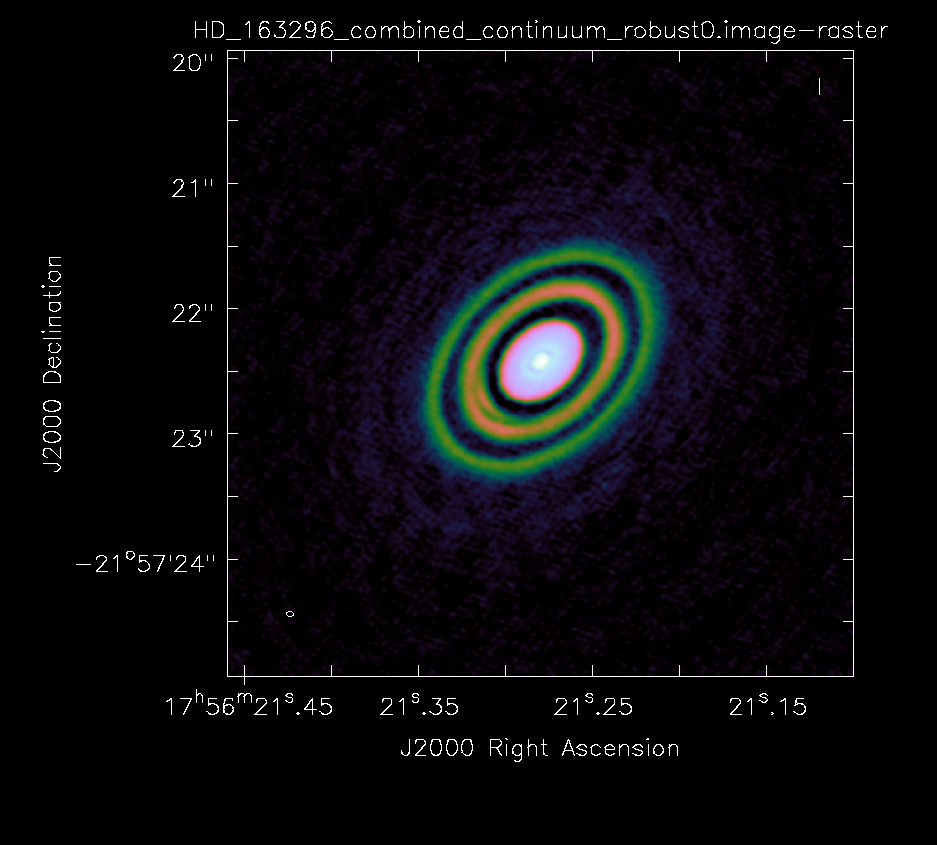
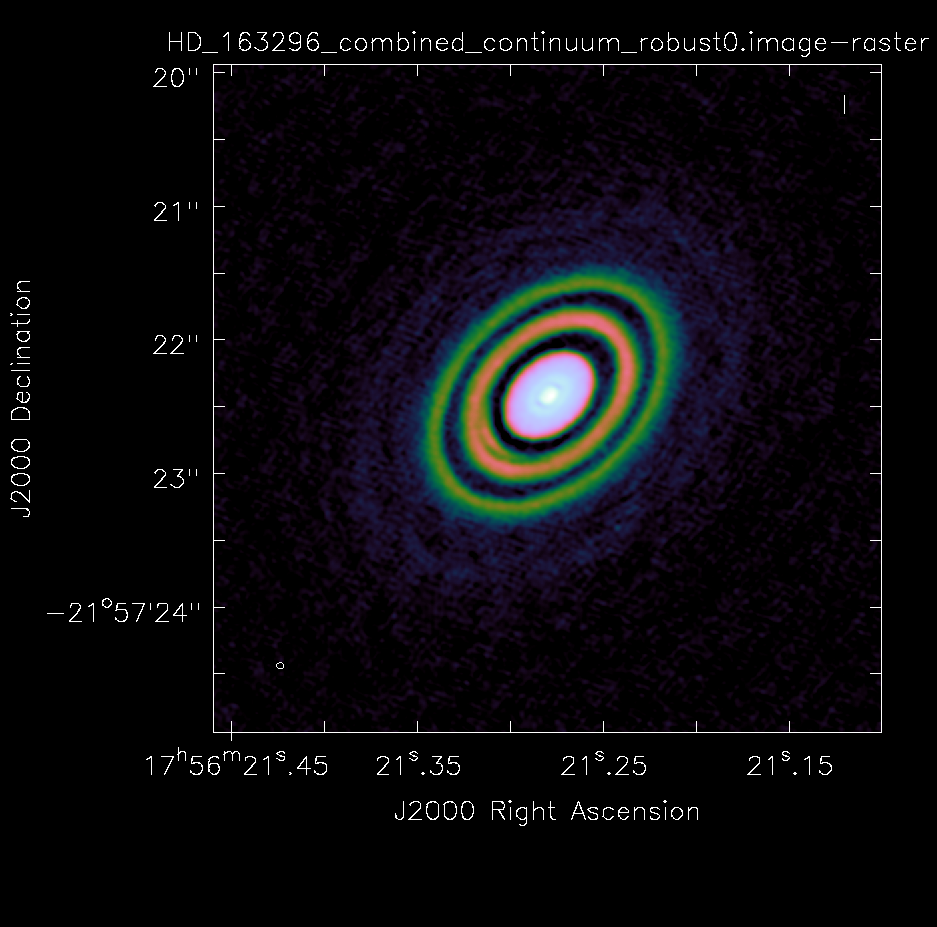
updated HD 163296

diff --git a/reduction_scripts/HD_163296_jh.py b/reduction_scripts/HD_163296_jh.py
@@ -969,7 +969,7 @@ applycal(vis='HD_163296_contcombined.ms', spw='0~23', spwmap = [0]*24, gaintable
 LB1_contms_p1 = field+'_'+tag+'_contp1.ms'
 os.system('rm -rf '+LB1_contms_p1)
 split2(vis='HD_163296_contcombined.ms', outputvis=LB1_contms_p1, datacolumn='corrected')
-"""
+
 LB1_contimagep1 = field+'_'+tag+'_continuump1'
 os.system('rm -rf '+LB1_contimagep1+'.*')
 clean(vis=LB1_contms_p1, 
@@ -991,8 +991,8 @@ clean(vis=LB1_contms_p1,
 
 #120 cycles of 100 iterations each
 
-#rms: 26 microJy/beam
-#peak: 7.5 microJy/beam
+#rms: 23 microJy/beam
+#peak: 80 microJy/beam
 
 # Second round of phase-only self-cal
 LB1_p2 = field+'_'+tag+'.p2'
@@ -1023,20 +1023,21 @@ clean(vis=LB1_contms_p2,
       usescratch = True,
       psfmode = 'hogbom',
       cyclefactor = 5, 
-      mask='ellipse[[1000pix,1000pix],[2.3arcsec,1.6arcsec],140deg]',
+      mask='ellipse[[1000pix,1000pix],[2.4arcsec,1.7arcsec],140deg]',
       imagermode = 'csclean')
+
 
 #130 cycles of 100 iterations each
 
-#rms: 24 microJy/beam
-#peak: 7.8 microJy/beam
+#rms: 22 microJy/beam
+#peak: 8.2 microJy/beam
 
 
 # third round of phase-only self-cal
 LB1_p3 = field+'_'+tag+'.p3'
 os.system('rm -rf '+LB1_p3)
 gaincal(vis=LB1_contms_p2, caltable=LB1_p3, gaintype='T', combine = 'spw', 
-        spw='0~23', refant=LB1_refant, calmode='p', 
+        spw='0~23', refant='DA64, DA44, DA63, DA48', calmode='p', 
         solint='30s', minsnr=2.0, minblperant=4)
 
 applycal(vis=LB1_contms_p2, spw='0~23', spwmap = [0]*24, gaintable=[LB1_p3], applymode = 'calonly', flagbackup=False, interp = 'linearperobs')
@@ -1061,55 +1062,17 @@ clean(vis=LB1_contms_p3,
       usescratch = True,
       psfmode = 'hogbom',
       cyclefactor = 5, 
-      mask='ellipse[[1000pix,1000pix],[2.3arcsec,1.6arcsec],140deg]',
+      mask='ellipse[[1000pix,1000pix],[2.4arcsec,1.7arcsec],140deg]',
       imagermode = 'csclean')
 
 #135 cycles of 100 iterations each 
-#rms: 21 microJy/beam
-#peak: 8.0 microJy/beam
+#rms: 19 microJy/beam
+#peak: 8.4 microJy/beam
 
-# fourth round of phase-only self-cal
-LB1_p4 = field+'_'+tag+'.p4'
-os.system('rm -rf '+LB1_p4)
-gaincal(vis=LB1_contms_p3, caltable=LB1_p4, gaintype='T', combine = 'spw', 
-        spw='0~23', refant=LB1_refant, calmode='p', 
-        solint='15s', minsnr=2.0, minblperant=4)
-
-applycal(vis=LB1_contms_p3, spw='0~23', spwmap = [0]*24, gaintable=[LB1_p4], applymode = 'calonly', flagbackup=False, interp = 'linearperobs')
-
-
-LB1_contms_p4 = field+'_'+tag+'_contp4.ms'
-os.system('rm -rf '+LB1_contms_p4)
-split2(vis=LB1_contms_p3, outputvis=LB1_contms_p4, datacolumn='corrected')
-
-LB1_contimagep4 = field+'_'+tag+'_continuump4'
-os.system('rm -rf '+LB1_contimagep4+'.*')
-clean(vis=LB1_contms_p4, 
-      imagename=LB1_contimagep4, 
-      mode='mfs', 
-      multiscale = [0, 20, 40, 80, 160], 
-      weighting='briggs', 
-      robust=0.5,
-      gain = 0.1,
-      imsize=2000,
-      cell='0.005arcsec', 
-      niter = 50000,
-      interactive = True, 
-      usescratch = True,
-      psfmode = 'hogbom',
-      cyclefactor = 5, 
-      mask='ellipse[[1000pix,1000pix],[2.3arcsec,1.6arcsec],140deg]',
-      imagermode = 'csclean')
-
-#136 cycles of 100 iterations each 
-#rms: 21 microJy/beam
-#peak: 8.0 microJy/beam
-
-#marginal improvement over previous round 
 
 LB1_contimage_robust0 = field+'_'+tag+'_continuum_robust0'
 os.system('rm -rf '+LB1_contimage_robust0+'.*')
-clean(vis=LB1_contms_p4, 
+clean(vis=LB1_contms_p3, 
       imagename=LB1_contimage_robust0, 
       mode='mfs', 
       multiscale = [0, 20, 40, 80, 160], 
@@ -1123,7 +1086,7 @@ clean(vis=LB1_contms_p4,
       usescratch = True,
       psfmode = 'hogbom',
       cyclefactor = 5, 
-      mask='ellipse[[1000pix,1000pix],[2.3arcsec,1.6arcsec],140deg]',
+      mask='ellipse[[1000pix,1000pix],[2.4arcsec,1.7arcsec],140deg]',
       imagermode = 'csclean')
 
 #165 cycles of 100 iterations each 
@@ -1131,6 +1094,7 @@ clean(vis=LB1_contms_p4,
 
 ###############################################
 ######## CO data reduction
+"""
 tag = 'LB'
 LB_CO_ms = field+'_'+tag+'_CO21.ms'
 os.system('rm -rf ' + LB_CO_ms + '*')

diff --git a/reduction_scripts/AS_209_jh.py b/reduction_scripts/AS_209_jh.py
@@ -1006,6 +1006,98 @@ clean(vis= LB1_contms_p2,
       imagermode = 'csclean')
 #111 cycles of 100 iterations each 
 
+#CO data reduction
+
+LB_vis = '/data/sandrews/LP/2016.1.00484.L/science_goal.uid___A001_X8c5_X60/group.uid___A001_X8c5_X61/member.uid___A001_X8c5_X62/calibrated/calibrated_final.ms' #this is the long-baseline measurement set being calibrated
+field = 'AS_209' 
+
+split2(vis=LB_vis,
+       field = field,
+       spw='3,7',      
+       outputvis='AS_209_LB_CO.ms',
+       timebin = '6s',
+       datacolumn='data')
 
 
+applycal(vis='AS_209_LB_CO.ms',  spw='0~1', spwmap = [[0,0],[0,0]], gaintable=[LB1_p1, LB1_p2], applymode = 'calonly', flagbackup=False)
 
+fitspw = '0:0~1870;1970~3839, 1:0~1870;1970~3839' # channels for fitting continuum
+uvcontsub(vis='AS_209_LB_CO.ms',
+          spw='0~1', 
+          fitspw=fitspw, 
+          excludechans=False, 
+          solint='int',
+          fitorder=1,
+          want_cont=False) 
+
+#switch to CASA 5.0
+
+
+SB2_CO_cvel = SB2_CO_mscontsub+'.cvel'
+
+os.system('rm -rf '+ CO_cvel)
+mstransform(vis = SB1_CO_mscontsub, outputvis = CO_cvel,  keepflags = False,datacolumn = 'data', regridms = True,mode='velocity',start='-4km/s',width='0.35km/s',nchan=60, outframe='LSRK', veltype='radio', restfreq='230.53800GHz')
+
+
+os.system('rm -rf '+ SB2_CO_cvel)
+mstransform(vis = SB2_CO_mscontsub, outputvis = SB2_CO_cvel,  keepflags = False,datacolumn = 'data', regridms = True,mode='velocity',start='-4km/s',width='0.35km/s',nchan=60, outframe='LSRK', veltype='radio', restfreq='230.53800GHz')
+
+mstransform(vis = 'AS_209_LB_CO.ms.contsub', outputvis = 'AS_209_LB_CO21.ms.contsub.cvel',  keepflags = False,datacolumn = 'data', regridms = True,mode='velocity',start='-4km/s',width='0.35km/s',nchan=60, outframe='LSRK', veltype='radio', restfreq='230.53800GHz')
+
+os.system('rm -rf AS_209_CO21test1.*')
+tclean(vis=['AS_209_SB1_CO21.ms.contsub.cvel', 'as_209_SB2_CO21.ms.contsub.cvel', 'AS_209_LB_CO21.ms.contsub.cvel'], 
+      imagename='AS_209_CO21test1',
+      specmode = 'cube',
+      imsize=1500, 
+      deconvolver = 'multiscale',  
+      start='-4km/s',
+      width='0.35km/s',
+      nchan=60, 
+      cycleniter = 100, 
+      outframe='LSRK', 
+      veltype='radio', 
+      restfreq='230.53800GHz',
+      cell='0.01arcsec', 
+      scales=[0,10,25,75,150,250], 
+      gain=0.1,
+      weighting='briggs', 
+      robust=1.0,
+      cyclefactor = 5, 
+      niter = 100000,
+      interactive=True, 
+      nterms = 1, 
+      threshold = '3mJy',
+      restoringbeam = 'common') 
+
+immoments(axis = "spec",imagename='AS_209_CO21test1.image',moments=[0],outfile ='AS_209_CO21test1.mom0.clipped', includepix = [.002,10])
+
+immoments(axis = "spec",imagename='AS_209_CO21test1.image',moments=[8],outfile ='AS_209_CO21test1.mom8')
+
+os.system('rm -rf AS_209_CO21test2.*')
+tclean(vis=['AS_209_SB1_CO21.ms.contsub.cvel', 'AS_209_LB_CO21.ms.contsub.cvel'], 
+      imagename='AS_209_CO21test2',
+      specmode = 'cube',
+      imsize=1500, 
+      deconvolver = 'multiscale',  
+      start='-4km/s',
+      width='0.35km/s',
+      nchan=60, 
+      cycleniter = 100, 
+      outframe='LSRK', 
+      veltype='radio', 
+      restfreq='230.53800GHz',
+      cell='0.01arcsec', 
+      scales=[0,10,25,75,150,250], 
+      gain=0.1,
+      weighting='briggs', 
+      robust=1.0,
+      cyclefactor = 5, 
+      niter = 100000,
+      interactive=True, 
+      nterms = 1, 
+      threshold = '3mJy',
+      restoringbeam = 'common') 
+
+immoments(axis = "spec",imagename='AS_209_CO21test2.image',moments=[0],outfile ='AS_209_CO21test2.mom0.clipped', includepix = [.002,10])
+
+immoments(axis = "spec",imagename='AS_209_CO21test2.image',moments=[8],outfile ='AS_209_CO21test2.mom8')
